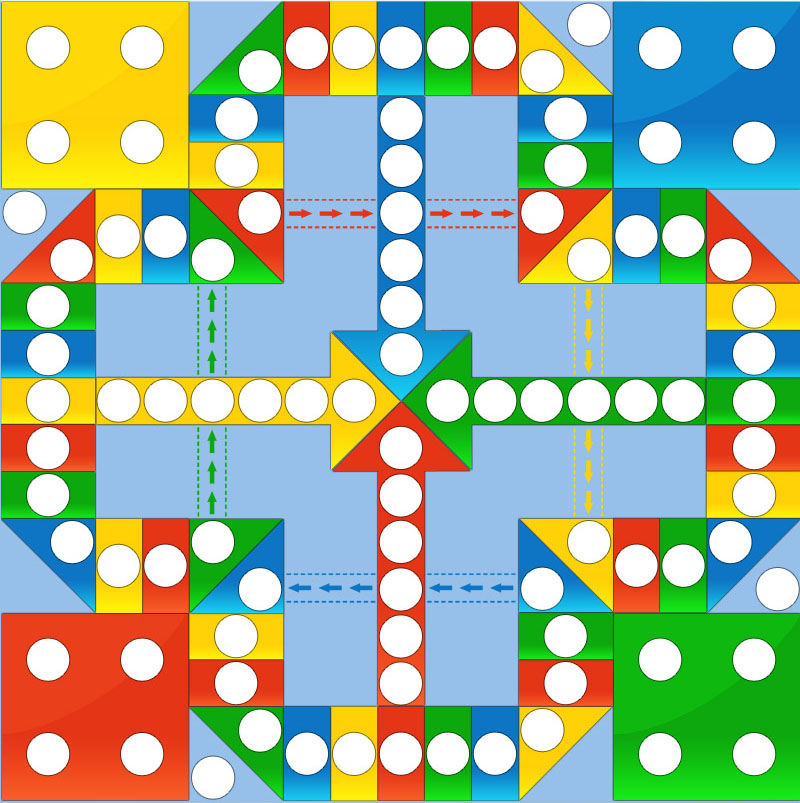
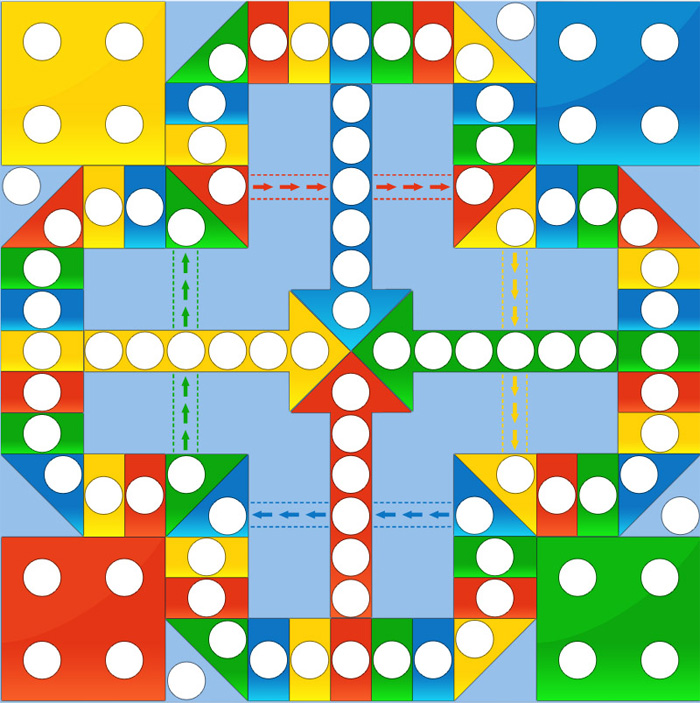
refine background to fit 720p

diff --git a/ludo/css/style.css b/ludo/css/style.css
@@ -21,8 +21,8 @@ body {
 
 #board {
     float: left;
-    width: 800px;
-    height: 800px;
+    width: 700px;
+    height: 700px;
     background: url('../images/board.jpg');
     box-shadow: 1px 1px 10px #000;
 }
